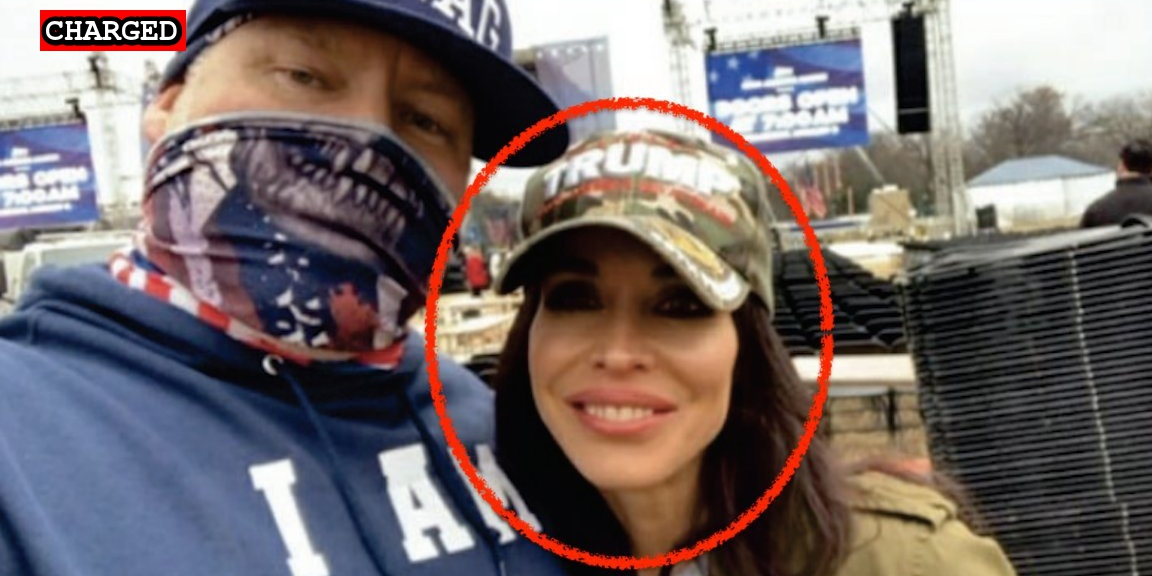
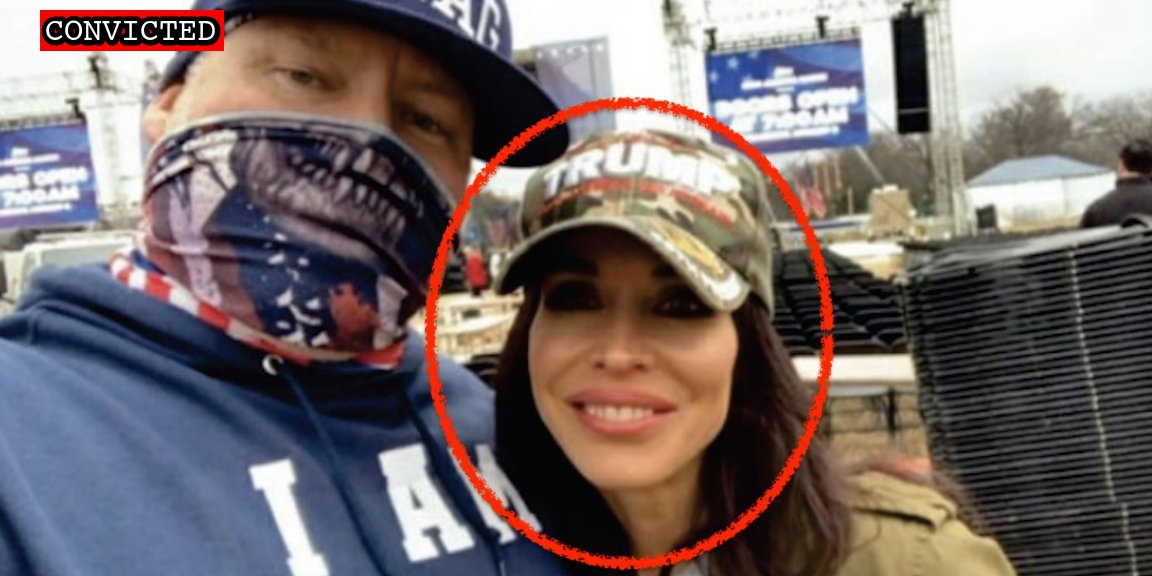
New plea

Changed region(s): [[0.0312, 0.0, 0.2188, 0.0938]]

diff --git a/docs/_suspects/jennifer-heinl.md b/docs/_suspects/jennifer-heinl.md
@@ -4,15 +4,15 @@ lastName: Heinl
 hashtag: JenniferHeinl
 aka:
 residence: Pennsylvania
-status: Charged
+status: Convicted
 date: 2021-03-17
 charged: 2021-03-17
 indicted:
-convicted: 
+convicted: 2021-11-02
 sentenced: 
 dismissed: 
 deceased:
-plea_hearing:
+plea_hearing: 2021-11-02
 sentencing:
 age: 55
 occupation:
@@ -34,6 +34,10 @@ published: true
 caseNumber: 1:21-cr-370
 videos:
 charges:
+- code: 18 USC § 5104(e)(2)(G)
+  title: Parading, demonstrating or picketing in a Capitol building
+  url: https://www.law.cornell.edu/uscode/text/40/5104
+  felony: false
 sentence:
 ---
 - [News Report](https://www.wpxi.com/news/top-stories/ross-township-woman-arrested-connection-with-violence-us-capitol/5C7LELQGNRFCFIJAB6E4N7AHJA/)
